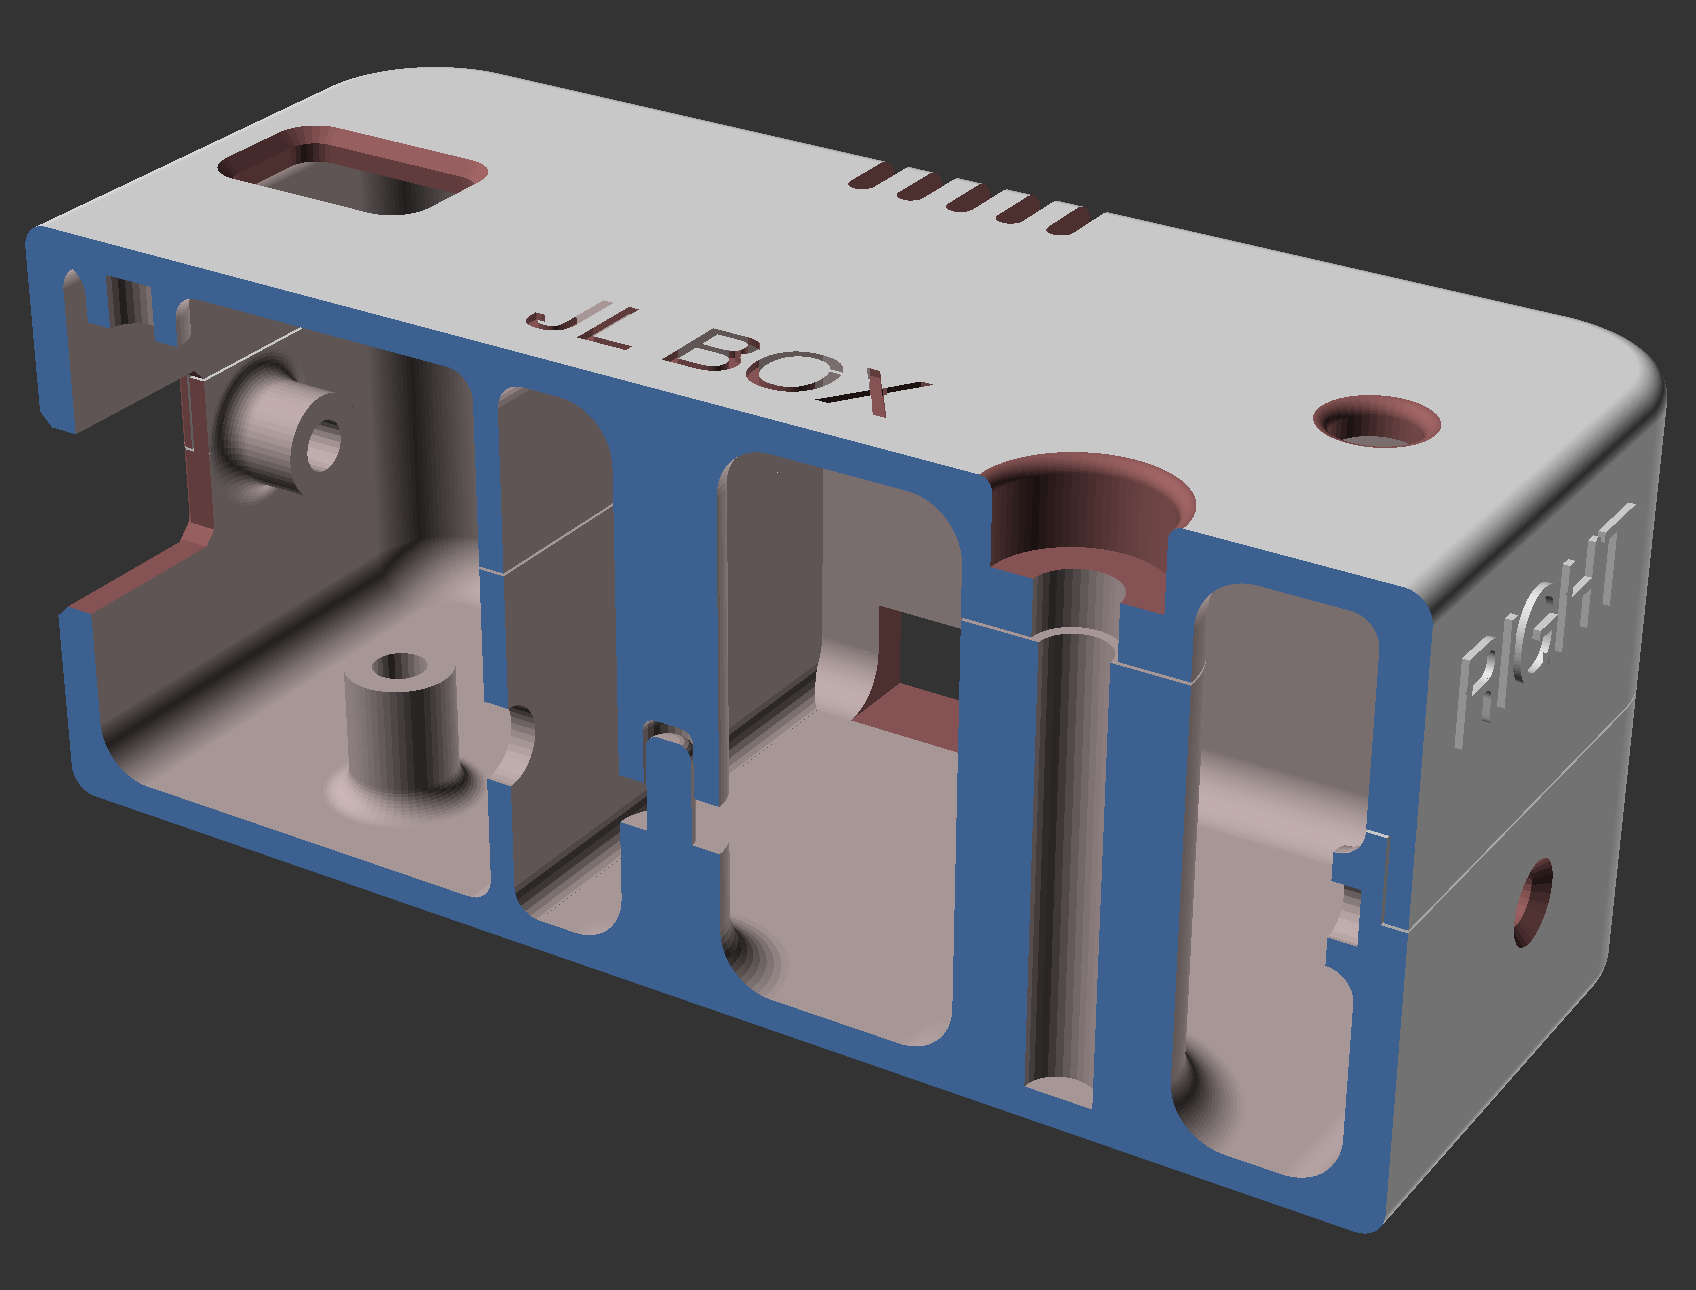
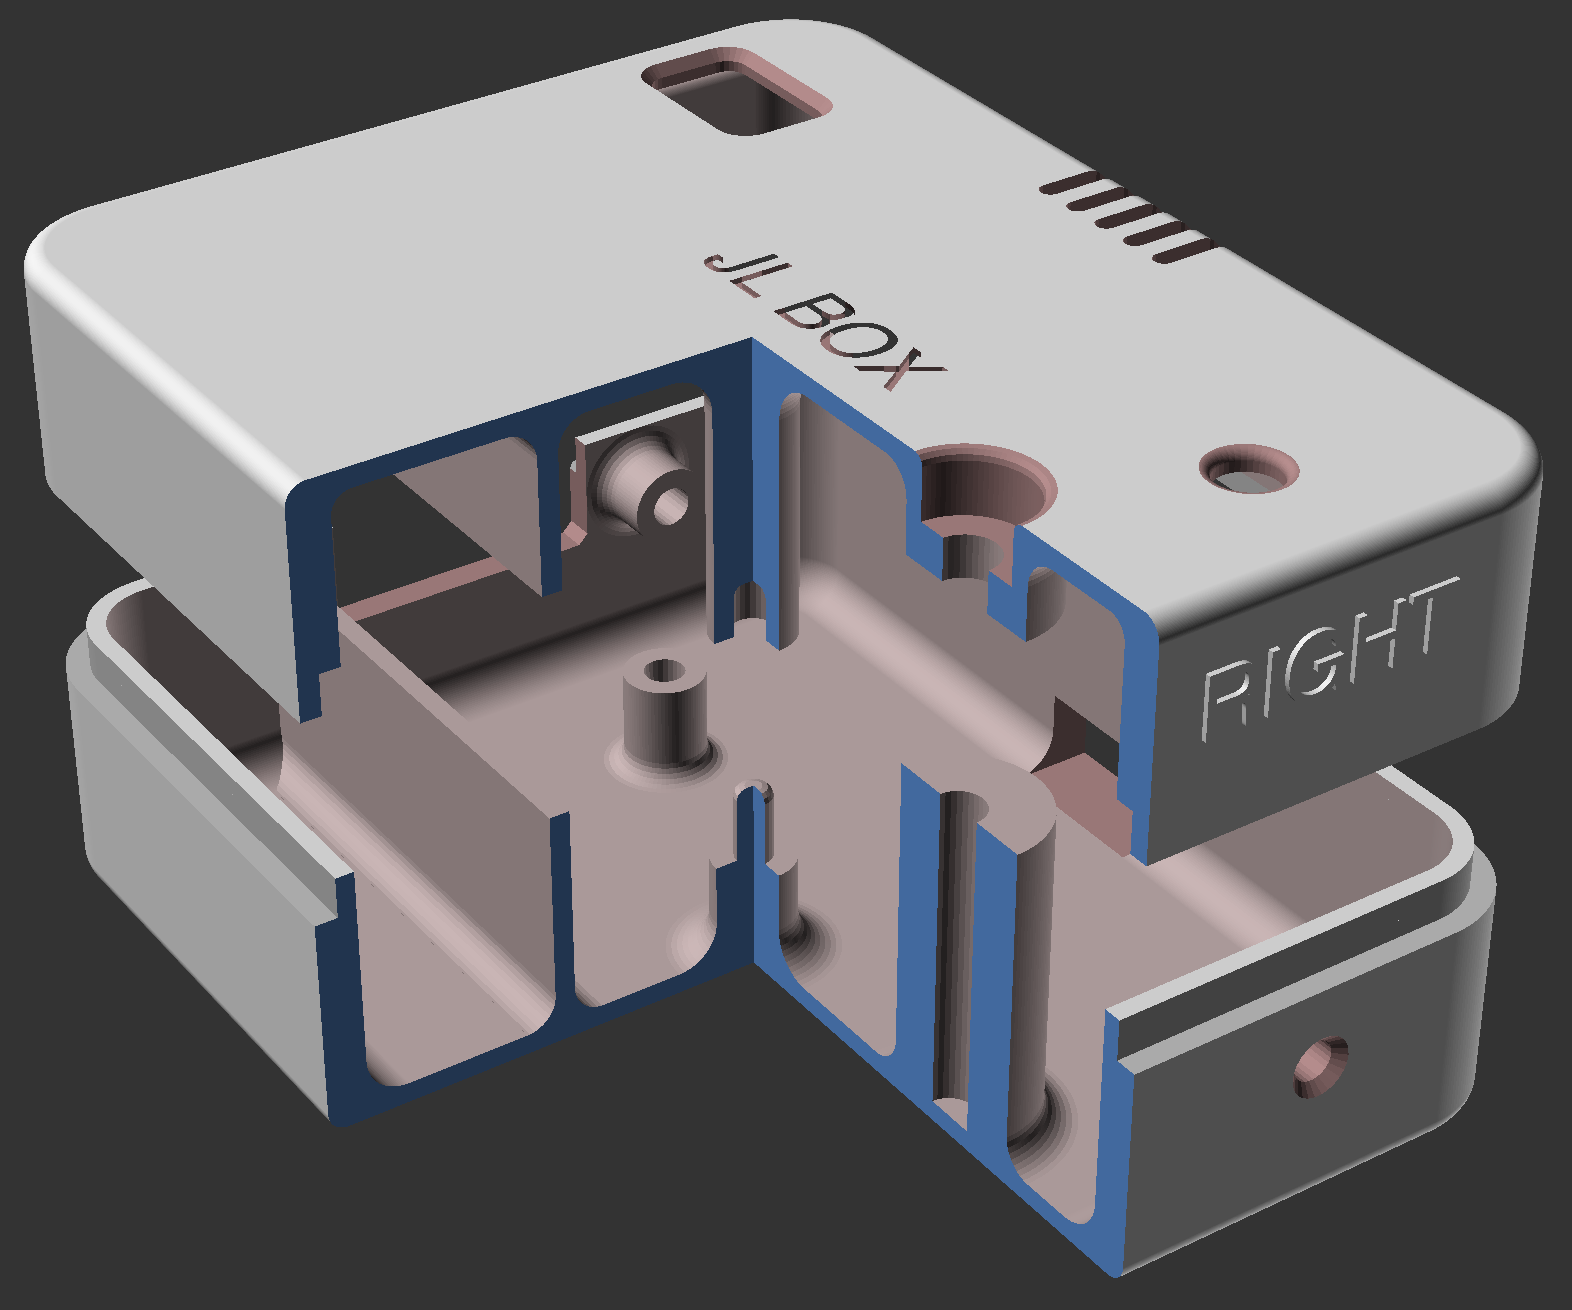
update docs and examples

diff --git a/README.md b/README.md
@@ -1,12 +1,67 @@
 # JL_SCAD
 
-Box enclosure library on top of BOSL2 (https://github.com/BelfrySCAD/BOSL2/tree/master)
+Box enclosure library for OpenSCAD that makes use of BOSL2 (https://github.com/BelfrySCAD/BOSL2/tree/master)
+
+This library makes it simple to design enclosures for electronic projects, etc.
 
 ![](images/jl_box_example.png)
 
-More documentation to come...
+## Installation
+Clone this git repo inside your OpenSCAD libraries folder.
+You also need BOSL2 installed.
+
+## Basics
+
+The main module is `box_make()`, which takes a box shell child. It allows to generate only the base, the lid, or both. And lay them out as assembled, or for 3D printing.
+
+The box shell module defines the box, and takes all the parts as children. There's currently only one box type included, but it's easy to add more.
+
+To place parts, you use `box_part(side, anchor)` which takes one or more parts as children. `side` is a vector that decides which side of the box to put the part, it should contain TOP or BOTTOM to decide if the part should be in the lid or the base, but can also be CENTER to put the part in both (useful for cutouts). if you add an X or Y vector to the side, the part will be placed against that side. The `anchor` defaults to CENTER and decides the box anchor to place the part at, the anchor is automatically adjusted according to `side`, so `side = TOP+LEFT` will include `LEFT` in the anchor, and orient the part so it points to the right.
+
+So the most basic example looks like this:
+```
+include <jl_scad/box.scad>
+include <jl_scad/parts.scad>
+
+box_make(BOX_BOTH, BACK)
+box_shell_rimmed([100,100,20])
+{
+    box_part(BOT, CENTER) standoff(); // add a standoff in the center of the base.
+}
+```
+
+There are also `box_cutout()` to easily create cutouts from a 2D path, or `box_cut()` to cut with any shape. Cuts uses the standard BOSL2 diff(), with BOX_CUT_TAG and BOX_KEEP_TAG.
+
+See the examples folder to learn more!
+
+## Compound parts
+
+Sometimes it's useful to have a part that has both a half in the base and one half in the lid. These are simply modules that gather parts for both TOP and BOT sides. They should be made `attachable()` so that they react correctly on the positioning and orientation:
+
+```
+module my_compound_part(size, anchor=CENTER, spin=0, orient=UP) {
+    inside_height = $parent_size.z;
+    attachable(anchor, spin, orient, size=[size.x,size.y,inside_height]) {
+        union() {
+            box_part(BOT, CENTER) cube(size, anchor=BOTTOM);
+            box_part(TOP, CENTER) cube([size.x, size.y, inside_height - size.z], anchor=BOTTOM);
+        }
+        children();
+    }
+}
+```
+
+Some included compound parts:
+
+- box_standoff_clamp() - A standoff with a pin in the base and hole in the lid part, to clamp a PCB or similar in place.
+- box_scew_clamp() - similar but with a screw hole in the base, to screw the base and lid together.
 
 ## Orientations
-The `box_pos(anchor, side)` module automatically orient parts for the box sides like below. Note that parts oriented downwards are rotated around X-axis instead of Y-axis.
+The `box_part()` module automatically orient parts for the sides like below, with their bottom against the box face, either on inside (default) or outside. Note that parts oriented downwards are rotated around X-axis instead of Y-axis.
 
 ![](images/jl_box_orientations.png)
+
+## Another example design
+A box for a laser module, 9V battery, and toggle switch. The parts to be installed are show with `box_preview()` and shown transparent, and are not included in the final render.
+
+![](images/jl_box_laserbox.png)
